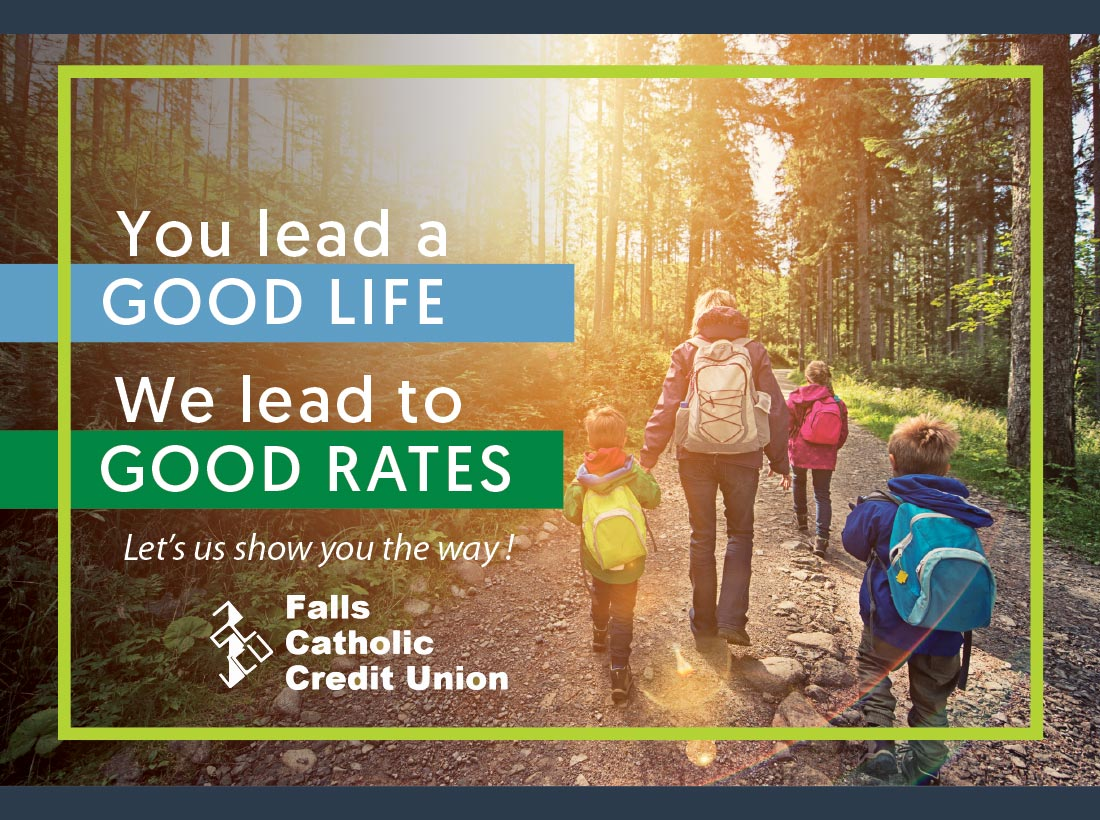
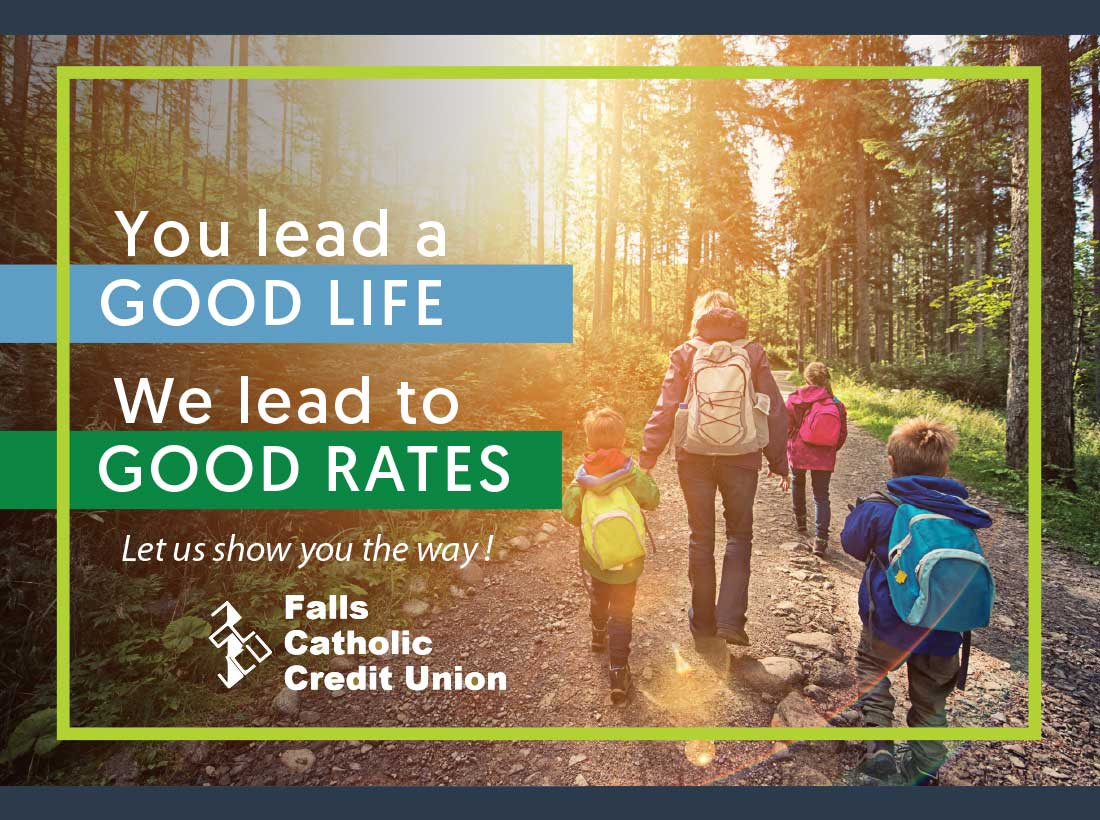
Delete unused image, and fix typo in header image.

diff --git a/index.html b/index.html
@@ -13,7 +13,7 @@
 	<main class="container">
 		
 		<header>
-			<img src="img/header.jpg" class="header">
+			<img src="img/header.jpg?v=1" class="header">
 		</header>
 		
 		<div class="main">
